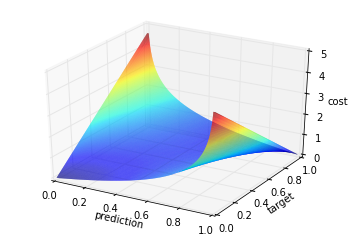
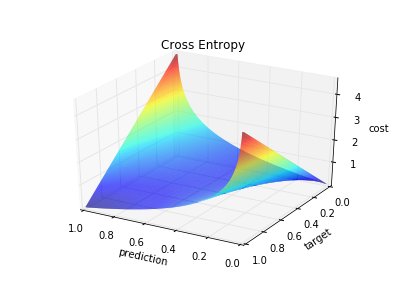
Update images in the readme

diff --git a/README.md b/README.md
@@ -79,11 +79,12 @@ network = Network([
 ```
 ### Activation Functions
 
-| Function | Definition | Derivative | Graph |
-| -------- | :--------: | :--------: | ----- |
-| Linear | x | 1 | ![Linear activation](image/linear.png) |
-| Sigmoid | 1 / (1 + exp(-x)) | y * (1 - y) | ![Sigmoid activation](image/sigmoid.png) |
-| Relu | max(0, x) | 1 if x > 0 else 0 | ![Relu activation](image/relu.png) |
+| Function | Definition | Graph |
+| -------- | :--------: | ----- |
+| Linear | x | ![Linear](image/linear.png) |
+| Sigmoid | 1 / (1 + exp(-x)) | ![Sigmoid](image/sigmoid.png) |
+| Relu | max(0, x) | ![Relu](image/relu.png) |
+| Softmax | exp(x) / sum(exp(x)) | ![Softmax](image/softmax.png) |
 
 ### Weight Initialization
 
@@ -126,10 +127,10 @@ decent = GradientDecent()
 
 ### Cost Functions
 
-| Function | Definition | Derivative | Graph |
-| -------- | :--------: | :--------: | ----- |
-| Squared | (pred - target) ^ 2 / 2 | | ![Squared cost](image/squared.png) |
-| CrossEntropy | -((target * log(pred)) + (1 - target) * log(1 - pred)) | | ![Cross Entropy cost](image/cross-entropy.png) |
+| Function | Definition | Graph |
+| -------- | :--------: | ----- |
+| Squared | (pred - target) ^ 2 / 2 | ![Squared Error](image/squared-error.png) |
+| CrossEntropy | -((target * log(pred)) + (1 - target) * log(1 - pred)) | ![Cross Entropy](image/cross-entropy.png) |
 
 ### Dataset and Training
 
